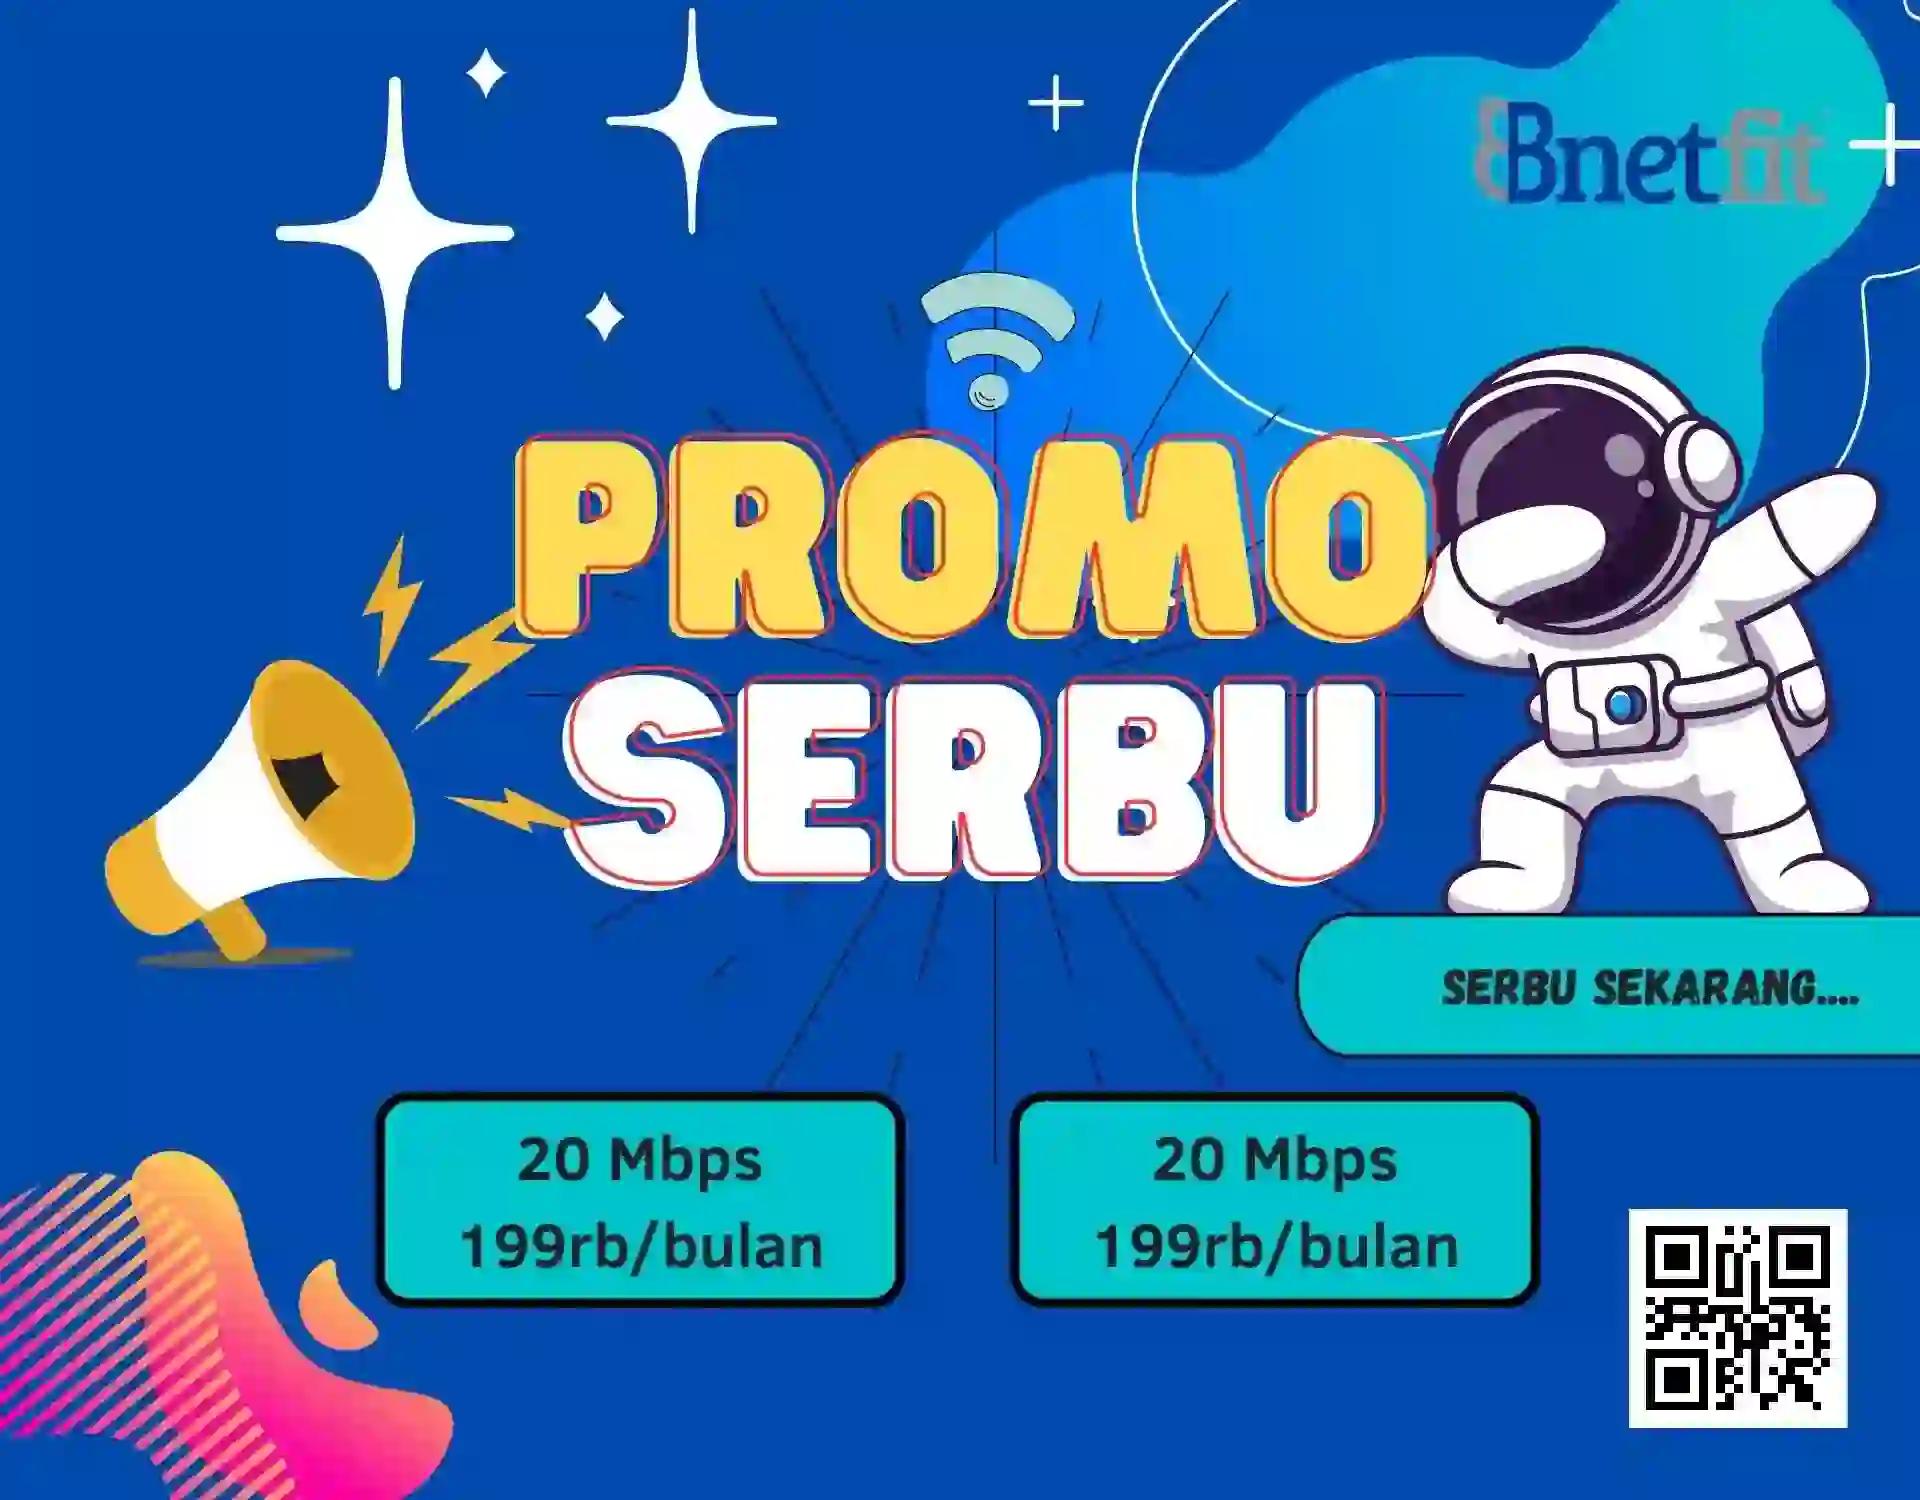
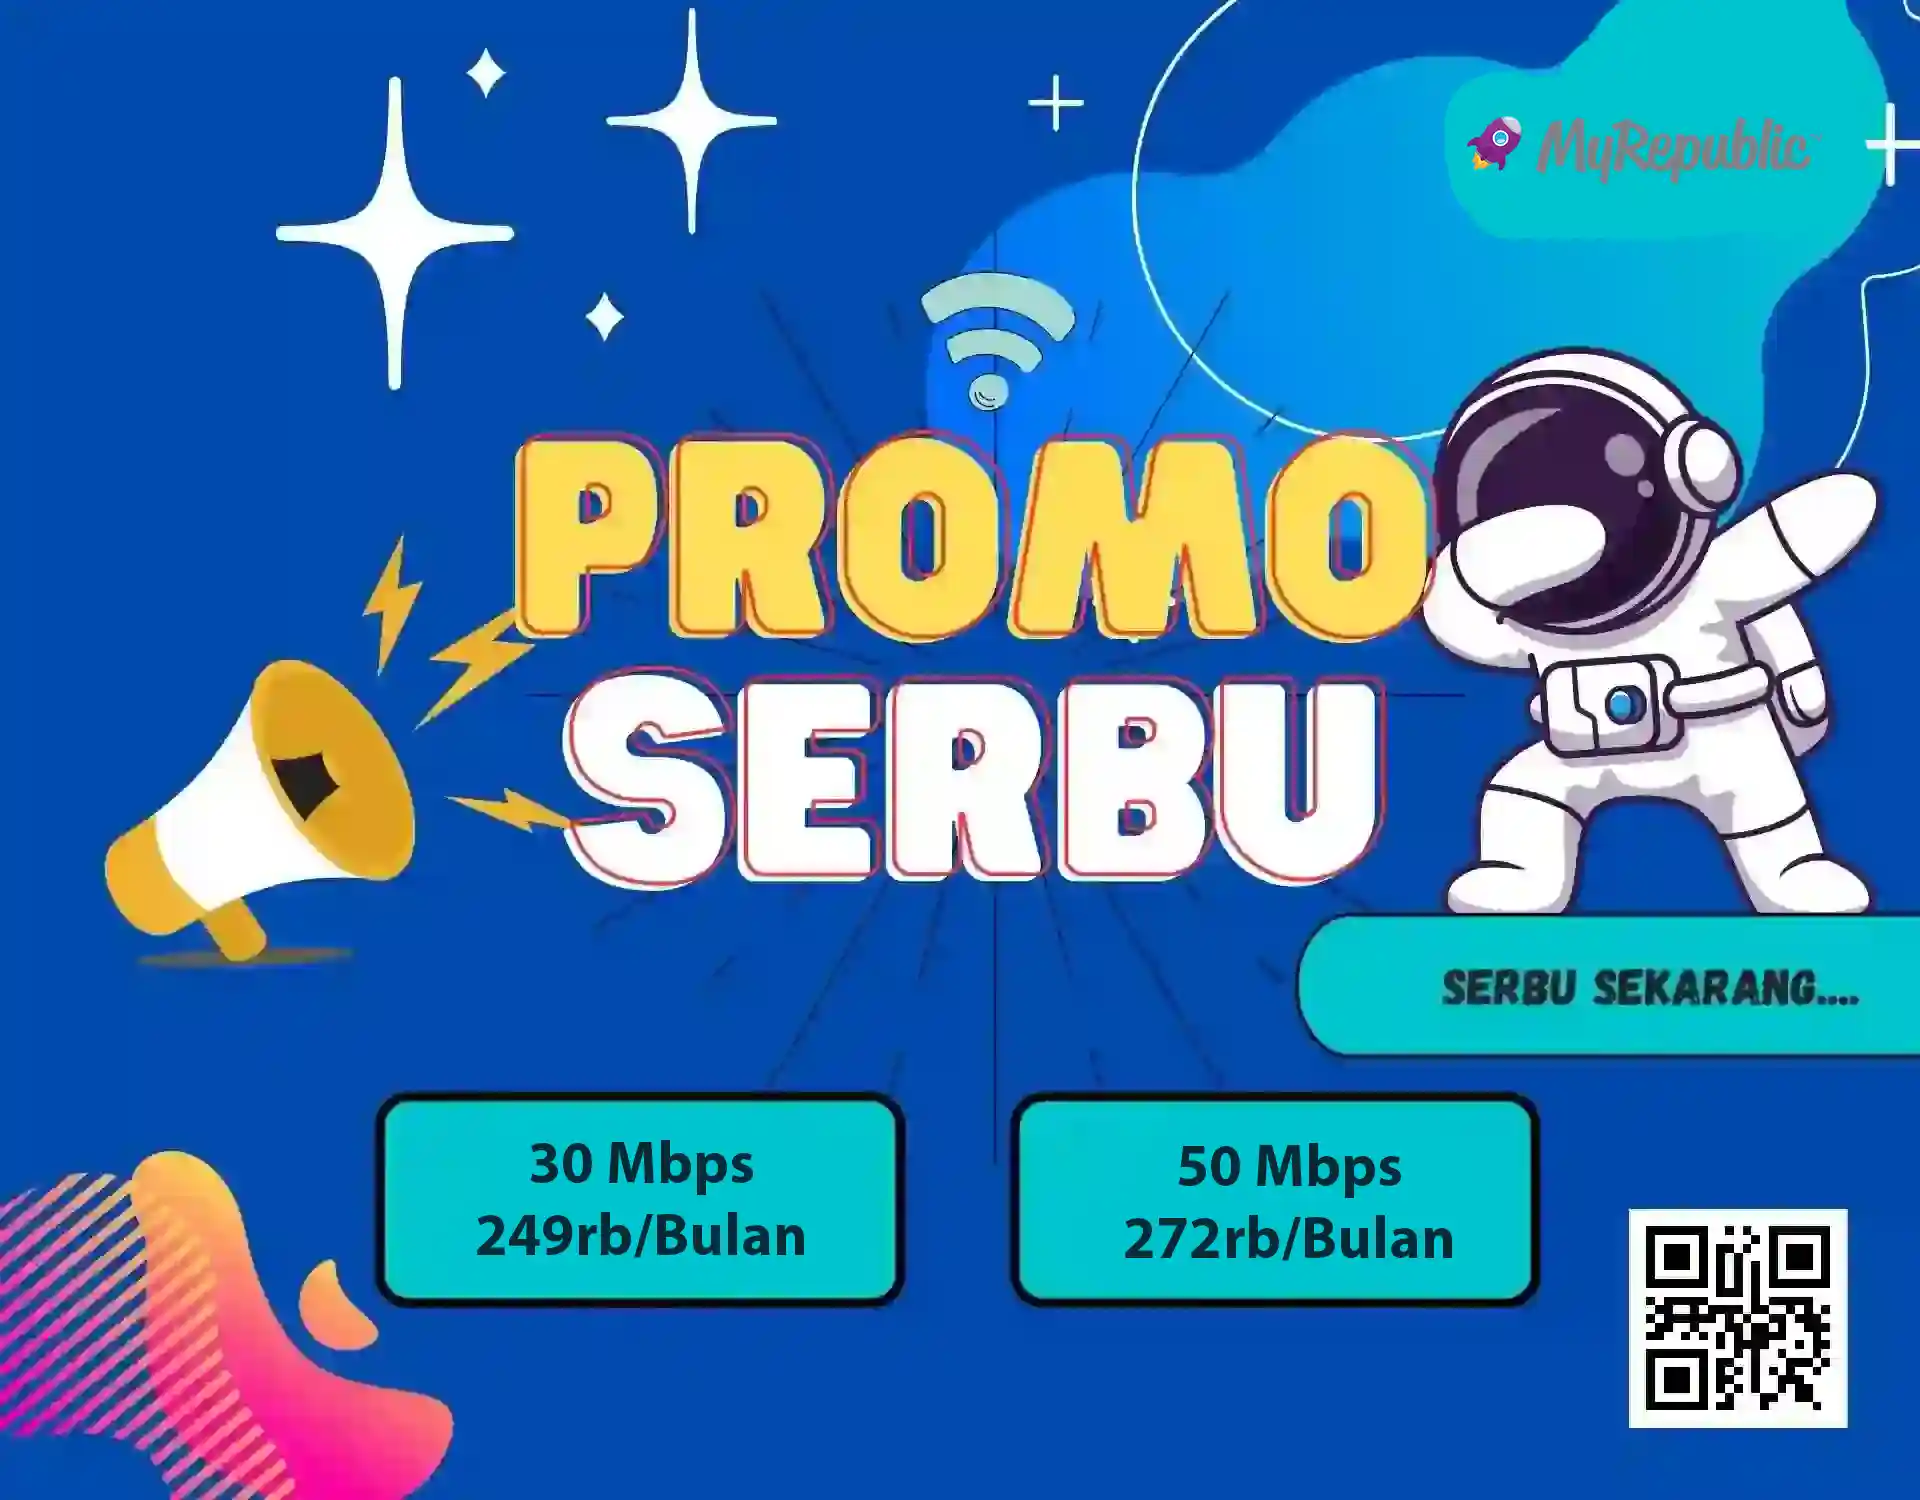
penyesuaian

diff --git a/components/Nav.tsx b/components/Nav.tsx
@@ -12,7 +12,7 @@ export const Nav = () => {
                     <Link href="/" className="linky">
                         <Image
                             src="/myrep.png"
-                            alt="Logo Bnetfit"
+                            alt="Logo MyRepublic"
                             width={170}
                             height={29}
                             className="py-3"
@@ -53,7 +53,7 @@ export const Nav = () => {
                     <ul className="flex items-center hidden space-x-8 lg:flex">
                         <li>
                             <Link
-                                href="https://api.whatsapp.com/send?phone=6281314160043&text=Halo Bnetfit, saya mau bertanya tentang layanan yang tersedia. Terimakasih."
+                                href="https://api.whatsapp.com/send?phone=6281314160043&text=Halo MyRepublic, saya mau bertanya tentang layanan yang tersedia. Terimakasih."
                                 className="inline-flex items-center justify-center h-10 px-6 font-bold tracking-wide text-white transition duration-200 rounded-xl shadow-md bg-gradient-to-br from-gray-900 to-blue-900 focus:shadow-outline focus:outline-none"
                                 aria-label="Sign up"
                                 title="Sign up"
@@ -100,9 +100,9 @@ export const Nav = () => {
                                                 }
                                             >
                                                 <Image
-                                                    src="/bnet.webp"
+                                                    src="/myrep.png"
                                                     alt="logo asisten"
-                                                    width={94}
+                                                    width={150}
                                                     height={29}
                                                     className=""
                                                 />
@@ -173,7 +173,7 @@ export const Nav = () => {
 
                                             <li>
                                                 <Link
-                                                    href="https://api.whatsapp.com/send?phone=6281314160043&text=Halo Bnetfit, saya mau bertanya tentang layanan yang tersedia. Terimakasih."
+                                                    href="https://api.whatsapp.com/send?phone=6281314160043&text=Halo MyRepublic, saya mau bertanya tentang layanan yang tersedia. Terimakasih."
                                                     className="inline-flex items-center justify-center w-full h-12 px-6 font-bold tracking-wide text-white transition duration-200 rounded shadow-md bg-gradient-to-br from-gray-900 to-blue-900 focus:shadow-outline focus:outline-none"
                                                     aria-label="Sign up"
                                                     title="Sign up"

diff --git a/components/Pricing.tsx b/components/Pricing.tsx
@@ -73,7 +73,7 @@ export default function Pricing() {
                             </li>
                         </ul>
                         <a
-                            href="https://api.whatsapp.com/send?phone=6281314160043&text=Halo Bnetfit, saya ingin informasi pemasangan paket Reguler 30. Terimakasih."
+                            href="https://api.whatsapp.com/send?phone=6281314160043&text=Halo MyRepublic, saya ingin informasi pemasangan paket Reguler 30. Terimakasih."
                             className="wapricing"
                         >
                             Pilih Paket
@@ -148,7 +148,7 @@ export default function Pricing() {
                             </li>
                         </ul>
                         <a
-                            href="https://api.whatsapp.com/send?phone=6281314160043&text=Halo Bnetfit, saya ingin informasi pemasangan paket Reguler 20. Terimakasih."
+                            href="https://api.whatsapp.com/send?phone=6281314160043&text=Halo MyRepublic, saya ingin informasi pemasangan paket Reguler 20. Terimakasih."
                             className="wapricing text-2xl"
                         >
                             Pilih Paket
@@ -221,7 +221,7 @@ export default function Pricing() {
                             </li>
                         </ul>
                         <a
-                            href="https://api.whatsapp.com/send?phone=6281314160043&text=Halo Bnetfit, saya ingin informasi pemasangan paket Reguler 50. Terimakasih."
+                            href="https://api.whatsapp.com/send?phone=6281314160043&text=Halo MyRepublic, saya ingin informasi pemasangan paket Reguler 50. Terimakasih."
                             className="wapricing"
                         >
                             Pilih Paket

diff --git a/layout/layout.js b/layout/layout.js
@@ -27,11 +27,12 @@ export default function Layout({
                 />
                 <link rel="icon" href="/icon-192x192.png" />
                 <meta name="google-site-verification" content="VCfQ8AwXUvzazyn36xTsAfUJ6qGL_nfu2vkUMI27Nec" />
+                
             </Head>
             <div>
                 <Nav />
                 <Link
-                    href="https://api.whatsapp.com/send?phone=6281314160043&text=Halo Bnetfit, saya mau bertanya tentang layanan yang tersedia. Terimakasih."
+                    href="https://api.whatsapp.com/send?phone=6281314160043&text=Halo MyRepublic, saya mau bertanya tentang layanan yang tersedia. Terimakasih."
                     className="float"
                     target="_blank"
                     rel="noopener"

diff --git a/pages/profil.tsx b/pages/profil.tsx
@@ -18,7 +18,7 @@ const Page: NextPageWithLayout = () => {
 };
 
 Page.getLayout = function getLayout(page: ReactElement) {
-    return <Layout title="Profil | Tentang Wifi Bnetfit">{page}</Layout>;
+    return <Layout title="Tentang Kami">{page}</Layout>;
 };
 
 export default Page;
